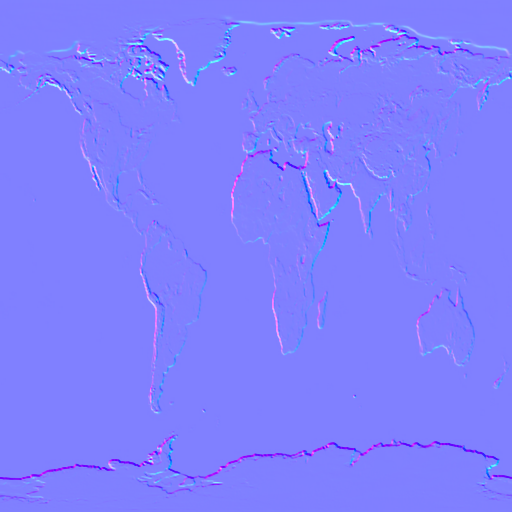
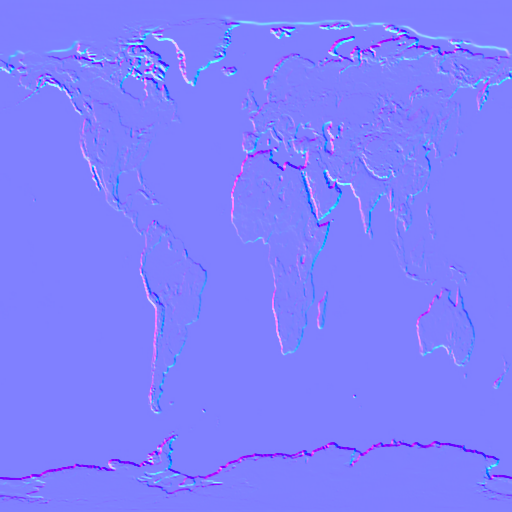
Add files via upload

Changed region(s): [[0.9375, 0.0625, 0.9688, 0.0938], [0.875, 0.5625, 0.9062, 0.5938], [0.8125, 0.0625, 0.8438, 0.0938]]

diff --git a/js/final.js b/js/final.js
@@ -54,20 +54,20 @@ const fragGauss = `#version 300 es
         float twoSigma2 = 2.0 * sigma * sigma;
         vec4 sum = vec4(0.0, 0.0, 0.0, 0.0);
         float w_sum = 0.0;
-        	
-        for (float j = -u_Half; j <= u_Half; j+=1.0) {	
+
+	    for (float j = -u_Half; j <= u_Half; j+=1.0) {	
 			for (float i = -u_Half; i <= u_Half; i+=1.0) {	
-			    float d = distance(vec2(0.0), vec2(i, j));
-			    if (d > u_Half) continue;		
+				float d = distance(vec2(0.0), vec2(i, j));
+				if (d > u_Half) continue;		
 				float weight = exp(-d * d / twoSigma2);
 				vec4 st = texture(u_Image, vec2(x+dx*i, y+dy*j));
 				sum += weight * st; // sum is float4
 				w_sum += weight;
 			}
-        }		
+		}
 		
 		sum /= w_sum; // normalize weight
-		cg_FragColor = sum;
+		cg_FragColor = sum;	
     }
 `;
 
@@ -76,13 +76,27 @@ const fragGauss = `#version 300 es
 const fragSobelNormalGeneration = `#version 300 es
 	precision highp float; 
     precision highp sampler2D;
-    
+
+	// Texture coordinates from fragment shader
     in vec2 v_Coord;
+
+	// Image ID
     uniform sampler2D u_Image;
-    uniform vec2 u_Texel; // added by hk
+
+	// Texel lengths
+    uniform vec2 u_Texel;
+
+	// The scaling for the gradient magnitude
     uniform float u_Scale;
+
+	// The height for the normal (assuming the height is constant)
 	uniform float u_NormalHeight;
+
+	// Swap the direction of the gradient
 	uniform bool u_SwapDirection;
+
+	// Use the gradient magnitude to determine z-height
+	uniform bool u_UseGradientMag;
 
     out vec4 cg_FragColor;
         
@@ -133,11 +147,21 @@ const fragSobelNormalGeneration = `#version 300 es
         /////////////////////////////////////////
         // enhance gradient magnitude
 	    mag = tanh(u_Scale * mag);
-	    /////////////////////////////////////////
+	    /////////////////////////////////////////	
 
-	    //cg_FragColor = vec4(mag, mag, mag, 1.0);
-	
-		cg_FragColor = mix(vec4(g, u_NormalHeight, 1.0), vec4(0.5, 0.5, 1.0, 1.0), 1.0 - mag);	
+	    // To help avoid noise, the mix function is used
+		// We use 1.0 - mag as the mixing factor, and we mix between
+		// neutral and the gradient (with some assumptions made for z)
+		// This way, only very strong gradients create drastic normals
+
+		// It should be noted that two z-heights were used here
+		// Either we can assume that all the normals have a constant height, which produces a relatively nice map
+		// Or, we can use the magnitude to assume a height - unfortunately this produces a worse result
+		if (u_UseGradientMag) {
+			cg_FragColor = mix(vec4(g, (0.2 + mag) / 1.2, 1.0), vec4(0.5, 0.5, 1.0, 1.0), 1.0 - mag);	
+		} else {
+			cg_FragColor = mix(vec4(g, u_NormalHeight, 1.0), vec4(0.5, 0.5, 1.0, 1.0), 1.0 - mag);	
+		}
     }       
 `;
 
@@ -169,6 +193,7 @@ config = {
 	TEXTURE: 0,
 	SWAP_DIRECTION: false,
 	SCALE: 100,
+	USE_MAG_HEIGHT: false,
 	Z_HEIGHT: 1.0,
 	PREGAUSS: 1.0,
 	POSTGAUSS: 1.0,
@@ -230,9 +255,9 @@ function main() {
 	
 				renderImgToFbo(glNormal, imgProg, preGaussFbo, texturesNormal[config.TEXTURE]);
 				if (config.PREGAUSS_FLAG) {
-					gauss(glNormal, gaussProg, preGaussFbo, config.PREGUASS);
+					gauss(glNormal, gaussProg, preGaussFbo, config.PREGAUSS);
 				}
-				sobelNormalMap(glNormal, normalProg, preGaussFbo, sobelMaskNormalFbo, config.SCALE, config.Z_HEIGHT, config.SWAP_DIRECTION);
+				sobelNormalMap(glNormal, normalProg, preGaussFbo, sobelMaskNormalFbo, config.SCALE, config.Z_HEIGHT, config.SWAP_DIRECTION, config.USE_MAG_HEIGHT);
 				if (config.POSTGAUSS_FLAG) {			
 					gauss(glNormal, gaussProg, sobelMaskNormalFbo, config.POSTGAUSS);	
 				}
@@ -244,10 +269,11 @@ function main() {
 	update();
 
 	// Add dat.GUI elements
-    let gui = new dat.GUI();
+    let gui = new dat.GUI( { width: 400 } );
     gui.add(config, "TEXTURE", { "Earth": 0, "Mars": 1, "Wood": 2 }).name("Texture Pair").onFinishChange(update);
     gui.add(config, "SWAP_DIRECTION").name("Invert Normal Direction").onFinishChange(update);
-    gui.add(config, "SCALE", 1, 500).name("Normal Scaling").onFinishChange(update);
+    gui.add(config, "SCALE", 1, 200).name("Normal Scaling").onFinishChange(update);
+	gui.add(config, "USE_MAG_HEIGHT").name("Use magnitude for z-height").onFinishChange(update);
 	gui.add(config, "Z_HEIGHT", 0, 1).name("Z Height").onFinishChange(update);
 	gui.add(config, "PREGAUSS_FLAG").name("Pre-Gauss").onFinishChange(update);
 	gui.add(config, "POSTGAUSS_FLAG").name("Post-Gauss").onFinishChange(update);
@@ -354,7 +380,7 @@ function renderToScreen(gl, prog, fbo) {
 
 /***** BASED ON HW3 *****/
 // Sobel normal mask drawing
-function sobelNormalMap(gl, prog, ori, dst, scale, normalHeight, swap) {
+function sobelNormalMap(gl, prog, ori, dst, scale, normalHeight, swap, useMagHeight) {
     let program = prog;
     program.bind(gl);
 
@@ -363,6 +389,7 @@ function sobelNormalMap(gl, prog, ori, dst, scale, normalHeight, swap) {
     gl.uniform1f(program.uniforms.u_Scale, scale);
 	gl.uniform1f(program.uniforms.u_NormalHeight, normalHeight);
 	gl.uniform1f(program.uniforms.u_SwapDirection, swap);
+	gl.uniform1f(program.uniforms.u_UseGradientMag, useMagHeight);
 
     gl.viewport(0, 0, gl.canvas.width, gl.canvas.height);
 
